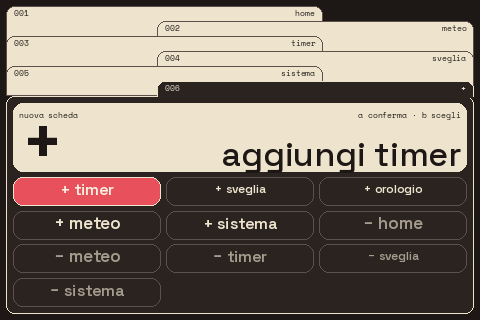
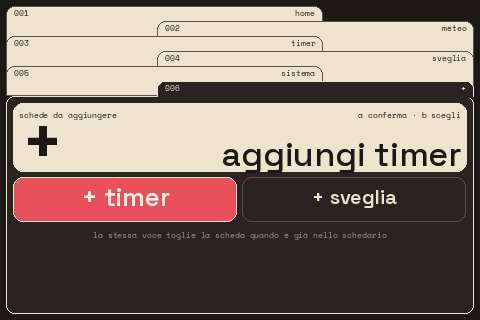
Semplifica la scheda + e togli l'ago dalla bussola
- la scheda "+" elenca solo le schede opzionali (timer, sveglia) e ogni
  voce fa da interruttore: aggiunge se manca, toglie se c'è
- bussola senza ago: riga dagli estremi arrotondati verso la direzione
  da cui soffia il vento, gradi nell'etichetta del pannello
- 46 test

Claude-Session: https://claude.ai/code/session_017Bfd67JoM7jWprSA4ZNW2j

diff --git a/dash/cyber.py b/dash/cyber.py
@@ -194,17 +194,14 @@ class CyberRenderer:
             a = math.radians(45 * i + 22.5)
             d.line((cx + (r - 2 * u) * math.cos(a), cy + (r - 2 * u) * math.sin(a),
                     cx + r * math.cos(a), cy + r * math.sin(a)), fill=self.c[dim], width=lw)
-        a = math.radians(deg - 90)          # 0° = vento da nord
-        tip = r - 9 * u                     # punta dalla parte da cui viene il vento
-        tail = tip * 0.72
+        # riga dal centro al bordo, verso la parte da cui soffia il vento (0° = da nord)
+        a = math.radians(deg - 90)
+        tip = r - 7 * u
         px, py = cx + tip * math.cos(a), cy + tip * math.sin(a)
-        d.line((cx - tail * math.cos(a), cy - tail * math.sin(a), px, py), fill=self.c[fg],
-               width=max(2, round(3 * u)))
-        head = max(3.0, 5 * u)
-        d.polygon([(px, py),
-                   (px - head * math.cos(a - 0.5), py - head * math.sin(a - 0.5)),
-                   (px - head * math.cos(a + 0.5), py - head * math.sin(a + 0.5))],
-                  fill=self.c[fg])
+        bar = max(4, round(6 * u))
+        d.line((cx, cy, px, py), fill=self.c[fg], width=bar)
+        for ex, ey in ((cx, cy), (px, py)):  # estremi arrotondati come le barre delle altre pagine
+            d.ellipse((ex - bar / 2, ey - bar / 2, ex + bar / 2, ey + bar / 2), fill=self.c[fg])
 
     # --- schedario ---------------------------------------------------------
     def _folder(self, d: ImageDraw.ImageDraw, box: Box, fill: str, outline: str, lw: int,
@@ -366,8 +363,8 @@ class CyberRenderer:
         band_h = right.h - (band_y - right.y) - pad - round(22 * u)  # sopra la riga di dettaglio
         comp = min(band_h, round(right.w * 0.34))
         mostra = comp > round(26 * u)
-        self._panel(d, right, "orange", f"vento {vento_nome(deg).lower()}", f"{kn:.0f} kn",
-                    f"{rosa(deg).lower()} {deg:.0f}° · raf {gust:.0f} · f{beaufort(kn)}", u, r,
+        self._panel(d, right, "orange", f"vento {vento_nome(deg).lower()} {deg:.0f}°", f"{kn:.0f} kn",
+                    f"{rosa(deg).lower()} · raf {gust:.0f} · f{beaufort(kn)}", u, r,
                     reserve=comp + pad if mostra else 0)
         if mostra:
             self._compass(d, Box(right.right - pad - comp, band_y + (band_h - comp) // 2,
@@ -481,14 +478,15 @@ class CyberRenderer:
         self._rows(d, rows, lines, u, key_color="cream")
 
     @staticmethod
-    def chips(box: Box, n: int, u: float, per_row: int = 3) -> list[Box]:
+    def chips(box: Box, n: int, u: float, per_row: int = 0) -> list[Box]:
         """Riquadri del catalogo della scheda "+": stessa geometria per disegno e tocco."""
         if n <= 0:
             return []
+        per_row = per_row or min(3, n)
         g = round(10 * u)
         rows = max(1, -(-n // per_row))
         cw = (box.w - (per_row - 1) * g) / per_row
-        ch = (box.h - (rows - 1) * g) / rows
+        ch = min((box.h - (rows - 1) * g) / rows, 90 * u)  # riquadri alti al massimo come un tasto
         return [Box(round(box.x + (i % per_row) * (cw + g)), round(box.y + (i // per_row) * (ch + g)),
                     round(cw), round(ch)) for i in range(n)]
 
@@ -516,7 +514,7 @@ class CyberRenderer:
         r, pad, g = round(20 * u), max(4, round(11 * u)), round(10 * u)
         top = Box(b.x, b.y, b.w, round(b.h * 0.34))
         d.rounded_rectangle(top.rect, radius=r, fill=self.c["cream"])
-        self._micro(d, (top.x + pad, top.y + pad), "nuova scheda", u, "ink", "la", 12)
+        self._micro(d, (top.x + pad, top.y + pad), "schede da aggiungere", u, "ink", "la", 12)
         self._micro(d, (top.right - pad, top.y + pad),
                     "tocca il + per confermare" if app.touch else "a conferma · b scegli",
                     u, "ink", "ra", 11)
@@ -524,12 +522,17 @@ class CyberRenderer:
                   top.h - 2 * pad - round(14 * u))
         self._big(d, num, "+", "ink", 600, pos=(top.x + pad + num.w / 2, num.bottom), anchor="ms")
         if scelta is not None:
-            azione = "aggiungi" if scelta.azione == "add" else "togli"
+            azione = "aggiungi" if scelta.azione == "add" else "togli"  # la voce fa da interruttore
             f = self._fit(f"{azione} {scelta.label}", "grotesk", 500, top.w - num.w - 3 * pad,
                           num.h * 0.62)
             self._text(d, (top.right - pad, num.bottom), f"{azione} {scelta.label}", f, "ink", "rs")
         grid = self._new_grid(b, u)
-        for i, (voce, cb) in enumerate(zip(voci, self.chips(grid, len(voci), u))):
+        riquadri = self.chips(grid, len(voci), u)
+        if riquadri:  # sotto i riquadri: come funziona l'interruttore
+            self._micro(d, (b.x + b.w / 2, riquadri[-1].bottom + round(14 * u)),
+                        "la stessa voce toglie la scheda quando è già nello schedario",
+                        u, "tan", "ma", 11)
+        for i, (voce, cb) in enumerate(zip(voci, riquadri)):
             active = scelta is not None and i == widget.idx % len(voci)
             togli = voce.azione == "del"
             fill = "pink" if active else "panel"

diff --git a/tests/test_dash.py b/tests/test_dash.py
@@ -434,37 +434,37 @@ class TestPageEditing(unittest.TestCase):
         cfg = make_cfg(pages=[{"name": "Home", "widget": "clock"}, {"name": "+", "widget": "new"}])
         return App(cfg, MemDisplay(480, 320), queue.Queue(), config_path=main)
 
-    def test_add_creates_page_before_the_plus_and_saves(self) -> None:
-        now = datetime(2026, 9, 24, 7, 42)
+    def test_catalogue_lists_only_the_optional_cards(self) -> None:
         with tempfile.TemporaryDirectory() as tmp:
             app = self._app(tmp)
             plus = app.pages[-1].widget
-            plus.on_action(now)                       # prima voce del catalogo: timer
-            self.assertEqual([p.name for p in app.pages], ["Home", "Timer", "+"])
-            self.assertEqual(app.page_idx, 1)         # si apre la pagina appena creata
-            plus.on_action(now)                       # secondo timer, indipendente dal primo
-            self.assertEqual([p.name for p in app.pages], ["Home", "Timer", "Timer 2", "+"])
-            self.assertIsNot(app.pages[1].widget, app.pages[2].widget)
-            saved = json.loads((Path(tmp) / "config.local.json").read_text(encoding="utf-8"))
-            self.assertEqual([p["widget"] for p in saved["pages"]],
-                             ["clock", "timer", "timer", "new"])
+            self.assertEqual([v.label for v in plus.voci()], ["timer", "sveglia"])
+            self.assertEqual({v.azione for v in plus.voci()}, {"add"})
             app.close()
 
-    def test_remove_page_and_keep_the_plus(self) -> None:
+    def test_entry_toggles_add_then_remove_and_saves(self) -> None:
         now = datetime(2026, 9, 24, 7, 42)
         with tempfile.TemporaryDirectory() as tmp:
             app = self._app(tmp)
             plus = app.pages[-1].widget
-            plus.on_action(now)
-            voci = plus.voci()
-            idx = next(i for i, v in enumerate(voci) if v.azione == "del" and v.label == "timer")
-            plus.on_select(idx)
+            plus.on_action(now)                       # prima voce: aggiunge il timer
+            self.assertEqual([p.name for p in app.pages], ["Home", "Timer", "+"])
+            self.assertEqual(app.page_idx, 1)         # si apre la pagina appena creata
+            saved = json.loads((Path(tmp) / "config.local.json").read_text(encoding="utf-8"))
+            self.assertEqual([p["widget"] for p in saved["pages"]], ["clock", "timer", "new"])
+            self.assertEqual(plus.voci()[0].azione, "del")  # ora la stessa voce lo toglie
+            app.page_idx = 2
             plus.on_action(now)
             self.assertEqual([p.name for p in app.pages], ["Home", "+"])
-            self.assertIs(app.page.widget, plus)  # si resta sulla scheda "+"
-            # la scheda "+" non compare fra le voci da togliere: non si può eliminare da sola
-            self.assertNotIn("+", [v.label for v in plus.voci() if v.azione == "del"])
-            plus.togli("new")
+            self.assertIs(app.page.widget, plus)      # si resta sulla scheda "+"
+            saved = json.loads((Path(tmp) / "config.local.json").read_text(encoding="utf-8"))
+            self.assertEqual([p["widget"] for p in saved["pages"]], ["clock", "new"])
+            app.close()
+
+    def test_the_plus_card_cannot_remove_itself(self) -> None:
+        with tempfile.TemporaryDirectory() as tmp:
+            app = self._app(tmp)
+            app.pages[-1].widget.togli("new")
             self.assertEqual([p.name for p in app.pages], ["Home", "+"])
             app.close()
 
@@ -475,10 +475,10 @@ class TestPageEditing(unittest.TestCase):
         app.page_idx = 1
         boxes = app.renderer.select_boxes(app)
         self.assertEqual(len(boxes), len(app.pages[-1].widget.voci()))
-        b = boxes[2]
+        b = boxes[1]
         app.handle_tap(Tap((b.x + b.w / 2) / 480, (b.y + b.h / 2) / 320),
                        datetime(2026, 9, 24, 7, 42))
-        self.assertEqual(app.pages[-1].widget.idx, 2)
+        self.assertEqual(app.pages[-1].widget.idx, 1)
         self.assertEqual(len(app.pages), 2)  # il tocco su una voce non crea nulla
         app.close()
 

diff --git a/dash/widgets/new.py b/dash/widgets/new.py
@@ -1,7 +1,7 @@
-"""Scheda "+": aggiunge e toglie pagine senza modificare i file a mano.
+"""Scheda "+": elenco delle schede che si possono aggiungere (timer, sveglia).
 
-A: esegue la voce scelta (aggiunge o toglie una pagina).  B: passa alla voce seguente.
-Le voci sono costruite a ogni lettura dalle pagine esistenti, che l'app fornisce con i callback.
+Ogni voce fa da interruttore: se la scheda non c'è la aggiunge, se c'è la toglie — quindi una
+sola scheda per tipo. A esegue la voce scelta, B passa alla seguente.
 """
 from __future__ import annotations
 
@@ -20,12 +20,12 @@ ETICHETTE: dict[str, str] = {
     "weather": "Meteo",
     "system": "Sistema",
 }
-ORDINE = ("timer", "alarm", "clock", "weather", "system")
+ORDINE = ("timer", "alarm")  # schede opzionali: le altre pagine stanno in config.json
 
 
 @dataclass(frozen=True)
 class Voce:
-    """Una riga del catalogo: aggiunge un tipo di widget o toglie una pagina esistente."""
+    """Una riga del catalogo: aggiunge il tipo, oppure toglie la pagina già presente."""
     azione: str   # "add" oppure "del"
     valore: str   # tipo di widget ("timer") oppure chiave della pagina da togliere
     label: str
@@ -40,16 +40,16 @@ class NewWidget(Widget):
         tipi = [t for t in cfg.get("tipi") or ORDINE if t in ETICHETTE]
         self.tipi: list[str] = tipi or list(ORDINE)
         self.idx = 0
-        # Impostati da App: elenco delle pagine togglibili e azioni sulle pagine.
-        self.pagine: Callable[[], list[tuple[str, str]]] = list
+        # Impostati da App: pagine presenti ({tipo: chiave}) e azioni sullo schedario.
+        self.pagine: Callable[[], dict[str, str]] = dict
         self.aggiungi: Callable[[str], None] = lambda tipo: None
         self.togli: Callable[[str], None] = lambda chiave: None
 
     def voci(self) -> list[Voce]:
-        """Catalogo: prima i tipi da aggiungere, poi le pagine da togliere."""
-        voci = [Voce("add", t, ETICHETTE[t].lower()) for t in self.tipi]
-        voci += [Voce("del", chiave, nome.lower()) for chiave, nome in self.pagine()]
-        return voci
+        """Una voce per tipo: "aggiungi" se manca, "togli" se la scheda è già nello schedario."""
+        presenti = self.pagine()
+        return [Voce("del", presenti[t], ETICHETTE[t].lower()) if t in presenti
+                else Voce("add", t, ETICHETTE[t].lower()) for t in self.tipi]
 
     def scelta(self) -> Voce | None:
         voci = self.voci()
@@ -75,4 +75,4 @@ class NewWidget(Widget):
         self.idx = 0
 
     def state_key(self, now: datetime) -> Hashable:
-        return (self.idx, tuple(self.pagine()))
+        return (self.idx, tuple(sorted(self.pagine())))

diff --git a/dash/main.py b/dash/main.py
@@ -71,6 +71,8 @@ def save_screenshots(cfg: dict[str, Any], out_dir: Path, now: datetime = SHOT_TI
         for widget in app.widgets.values():
             if isinstance(widget, SystemWidget):
                 widget.load_demo()
+            if isinstance(widget, NewWidget):
+                widget.pagine = dict  # anteprima: catalogo nello stato iniziale (tutto da aggiungere)
         for widget in app.widgets.values():
             widget.update(now)
         for i, page in enumerate(app.pages):
@@ -118,16 +120,16 @@ class App:
             key = f"{kind}#{n}"
         page = Page(name, self.factory.make(kind), key, kind)
         if isinstance(page.widget, NewWidget):  # la scheda "+" agisce sullo schedario
-            page.widget.pagine = self.removable
+            page.widget.pagine = self.page_kinds
             page.widget.aggiungi = self.add_page
             page.widget.togli = self.remove_page
         self.pages.insert(len(self.pages) if at is None else at, page)
         self.widgets[key] = page.widget
         return page
 
-    def removable(self) -> list[tuple[str, str]]:
-        """Pagine che la scheda "+" può togliere: tutte tranne sé stessa."""
-        return [(p.key, p.name) for p in self.pages if p.kind != "new"]
+    def page_kinds(self) -> dict[str, str]:
+        """{tipo: chiave} delle pagine presenti, per l'interruttore della scheda "+"."""
+        return {p.kind: p.key for p in self.pages if p.kind != "new"}
 
     def add_page(self, kind: str) -> None:
         """Aggiunge una pagina del tipo indicato prima della scheda "+" e ci si sposta."""

diff --git a/dash/config.py b/dash/config.py
@@ -18,7 +18,7 @@ DEFAULTS: dict[str, Any] = {
     "timer": {"presets_s": [60, 300, 600], "step_s": 10, "labels": {}},
     "alarm": {"ring_max_min": 10, "alarms": []},
     "pages": [{"name": "Home", "widget": "clock"}],
-    "new": {"tipi": ["timer", "alarm", "clock", "weather", "system"]},
+    "new": {"tipi": ["timer", "alarm"]},
     "fb": {"device": "auto", "pixel_scale": 1, "console_off": True},
     "input": {"keyboard": True, "gpio": None, "buzzer_pin": None, "sound": False,
               "touch": {"enabled": False, "device": "auto", "swap_xy": False, "invert_x": False,

diff --git a/README.md b/README.md
@@ -9,9 +9,9 @@ Le pagine sono le cartelle di uno schedario: si tocca la linguetta numerata e la
 sotto di essa. Stesso stile ovunque — pannelli arrotondati a colori su fondo scuro, numeri in
 Space Grotesk, microetichette in Space Mono.
 
-Lo schedario si compone a piacere: la scheda **+** aggiunge e toglie pagine dal dashboard, anche
-più copie dello stesso tipo (due timer indipendenti, un secondo orologio). Le pagine scelte si
-salvano in `config.local.json` e tornano al riavvio.
+Lo schedario si compone a piacere: la scheda **+** elenca le schede opzionali — timer e sveglia —
+e ogni voce fa da interruttore: le aggiunge se mancano, le toglie se ci sono. La scelta si salva
+in `config.local.json` e torna al riavvio.
 
 ## 1. Pagine
 | # | Pagina | In partenza | Contenuto |
@@ -21,7 +21,7 @@ salvano in `config.local.json` e tornano al riavvio.
 | 003 | Timer | da aggiungere | conto alla rovescia con preset (5' = sequenza di partenza) |
 | 004 | Sveglia | da aggiungere | prossima sveglia, stato, elenco per giorno della settimana |
 | 005 | Sistema | sì | CPU, RAM, disco, storici di CPU e rete, host, IP, temperatura, uptime |
-| + | Nuova scheda | sì | catalogo: aggiunge o toglie le pagine dello schedario |
+| + | Nuova scheda | sì | elenco delle schede opzionali: le aggiunge o le toglie |
 
 ### 1.1 Anteprime
 | 001 · Home | 002 · Meteo |
@@ -30,7 +30,7 @@ salvano in `config.local.json` e tornano al riavvio.
 | **003 · Timer** | **004 · Sveglia** |
 | ![Timer: conto alla rovescia di partenza con preset](docs/img/03-timer.png) | ![Sveglia: orario, stato e prossima attivazione](docs/img/04-sveglia.png) |
 | **005 · Sistema** | **+ · Nuova scheda** |
-| ![Sistema: CPU, RAM, disco, storici di CPU e rete, host, IP, temperatura, uptime](docs/img/05-sistema.png) | ![Nuova scheda: catalogo delle pagine da aggiungere o togliere](docs/img/06-new.png) |
+| ![Sistema: CPU, RAM, disco, storici di CPU e rete, host, IP, temperatura, uptime](docs/img/05-sistema.png) | ![Nuova scheda: elenco delle schede opzionali, timer e sveglia](docs/img/06-new.png) |
 
 Le anteprime mostrano tutte le pagine, comprese quelle da aggiungere.
 Immagini a 480×320, risoluzione nativa dello schermo, generate dal codice con dati demo:
@@ -72,7 +72,8 @@ precedente. Dettagli e passaggio da un'installazione via zip: guida § 7.
 
 ## 4. Configurazione
 Lo schedario si cambia dalla scheda **+** senza toccare i file: B (o il tocco su una voce) sceglie,
-A (o il tocco sul "+") conferma. Le pagine finiscono in `config.local.json`.
+A (o il tocco sul "+") conferma. Le schede opzionali sono elencate in `new.tipi`; la scelta
+finisce in `config.local.json`.
 
 `config.json` (in Git) contiene i valori del progetto: posizione, sveglie, preset del timer,
 pagine, colori, touch. Le modifiche fatte sul Raspberry vanno in `config.local.json`
@@ -83,7 +84,7 @@ Schedario, voci, calibrazione del tocco e colori: guida § 5.6, § 5.7, § 5.4 e
 ```
 python -m dash --demo --driver sim --web 8080   # simulatore nel browser
 python -m dash --screenshots docs/img           # rigenera le anteprime del README
-python -m unittest -v                           # 45 test
+python -m unittest -v                           # 46 test
 ```
 Regole del progetto e decisioni: [CLAUDE.md](CLAUDE.md). Modifiche: [CHANGELOG.md](CHANGELOG.md).
 

diff --git a/CLAUDE.md b/CLAUDE.md
@@ -79,12 +79,15 @@ Leggerlo prima di toccare `display/fb.py` o `inputs.py`.
 - Home: ora, data, luogo e coordinate, alba/tramonto, barra della giornata, settimana n:X,
   giorno X/365 (366 negli anni bisestili), tre anelli concentrici (anno arancio, mese ambra,
   settimana crema) con una sfera in testa all'arco: `ClockWidget.cycles`.
-- Schedario componibile: la scheda "+" (`widgets/new.py`) elenca i tipi da aggiungere e le pagine
-  da togliere; `App.add_page`/`remove_page` creano il widget e salvano `pages` in
-  `config.local.json`. Chiave della pagina `tipo` o `tipo#N`, sempre libera anche dopo una
-  rimozione. La scheda "+" resta ultima e non si può togliere.
-- Meteo: bussola con la direzione **da cui** soffia il vento (uso nautico) e gradi nella riga di
-  dettaglio; `_panel(reserve=...)` libera lo spazio a destra del numero.
+- Schedario componibile: la scheda "+" (`widgets/new.py`) elenca solo i tipi opzionali
+  (`new.tipi`, di norma timer e sveglia); ogni voce fa da interruttore, quindi una sola pagina
+  per tipo. `App.add_page`/`remove_page` creano il widget e salvano `pages` in
+  `config.local.json`; `App.page_kinds()` dice al widget cosa è già presente. Chiave della pagina
+  `tipo` o `tipo#N`, sempre libera anche dopo una rimozione (più copie restano possibili da
+  configurazione). La scheda "+" resta ultima e non si può togliere.
+- Meteo: bussola senza ago — riga dagli estremi arrotondati dal centro verso la direzione **da
+  cui** soffia il vento (uso nautico), gradi nell'etichetta del pannello; `_panel(reserve=...)`
+  libera lo spazio a destra del numero.
 - Rete: byte/s da `/proc/net/dev` (tutte le schede tranne `lo`), differenza fra due campioni;
   il primo campione dopo l'avvio vale None. Storico nel widget sistema, grafico in scala sul picco.
 - Meteo: Open-Meteo (nessuna chiave), `wind_speed_unit=kn`, `timezone=auto`, 2 giorni orari;

diff --git a/CHANGELOG.md b/CHANGELOG.md
@@ -1,18 +1,20 @@
 # Changelog
 
 ## 0.3.0 — 2026-09-26
-- Schedario componibile: la scheda "+" aggiunge e toglie pagine (anche più copie dello stesso
-  tipo, ognuna con il proprio stato) e le salva in `config.local.json`. B sceglie la voce,
-  A conferma; col tocco: una voce per scegliere, il "+" per confermare.
+- Schedario componibile: la scheda "+" elenca le schede opzionali (`new.tipi`: timer e sveglia) e
+  ogni voce fa da interruttore — aggiunge la scheda se manca, la toglie se c'è. La scelta si salva
+  in `config.local.json`. B sceglie la voce, A conferma; col tocco: una voce per scegliere,
+  il "+" per confermare.
 - Timer e sveglia non sono più pagine fisse: si aggiungono dal "+" quando servono.
 - Home: tre anelli concentrici con una sfera ciascuno per settimana, mese e anno.
-- Meteo: bussola con la direzione da cui soffia il vento e gradi nella riga di dettaglio.
+- Meteo: bussola con una riga dagli estremi arrotondati verso la direzione da cui soffia il vento
+  (niente ago) e gradi nell'etichetta del pannello.
 - Sistema: storico del traffico di rete accanto a quello della CPU e riga "rete" con
   le velocità in ingresso e in uscita (lette da `/proc/net/dev`, esclusa `lo`).
 - Corretto: `--driver sim` su una configurazione da Raspberry (`width`/`height` "auto") faceva
   fallire il comando di prova indicato nel README; ora le dimensioni valgono 480×320 con qualunque
   driver diverso da `fb`.
-- 45 test.
+- 46 test.
 
 ## 0.2.0 — 2026-09-26
 - README: anteprime di tutte e cinque le pagine (`docs/img/01-home.png` … `05-sistema.png`)

diff --git a/docs/installazione.md b/docs/installazione.md
@@ -201,10 +201,12 @@ servono: apri il **+**, scegli la voce e conferma.
 |---|---|
 | tocca una voce per sceglierla, poi il riquadro "+" in alto per confermare | B passa alla voce seguente, A conferma |
 
-Le voci `+ nome` aggiungono una pagina, quelle `− nome` la tolgono. Si possono aggiungere più
-copie dello stesso tipo (due timer indipendenti: "Timer" e "Timer 2"). Lo schedario risultante
-viene salvato in `config.local.json` (§ 5.7) e torna al riavvio; la scheda "+" resta sempre
-l'ultima e non si può togliere.
+La stessa voce fa da interruttore: `+ timer` aggiunge la scheda, `− timer` la toglie. Lo schedario
+risultante viene salvato in `config.local.json` (§ 5.7) e torna al riavvio; la scheda "+" resta
+sempre l'ultima e non si può togliere.
+
+Le schede elencate sono quelle di `new.tipi` (`timer`, `alarm`). Le pagine fisse — home, meteo,
+sistema — stanno in `pages`: si cambiano dal file, non dal dashboard.
 
 ### 5.7 Le tue impostazioni: `config.local.json`
 `config.json` arriva da GitHub e viene sostituito a ogni aggiornamento. Le tue modifiche vanno in
